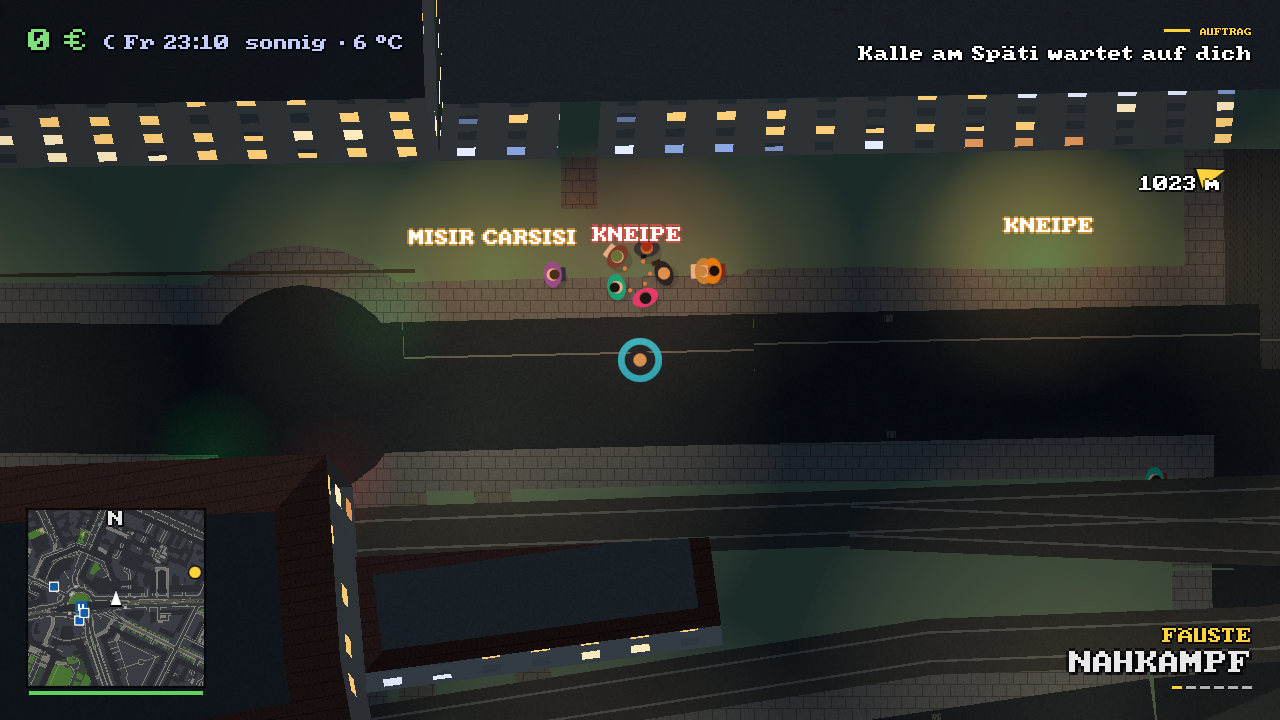
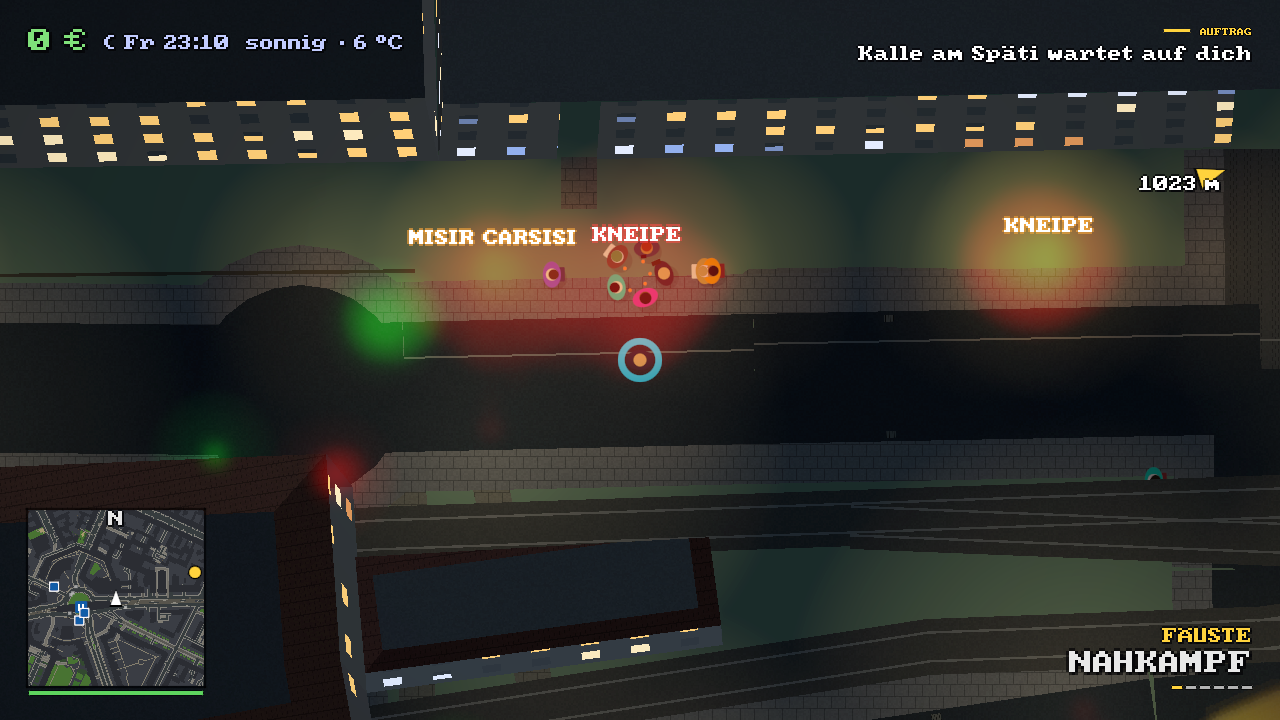
Füge Bloom hinzu
Claude-Session: https://claude.ai/code/session_015BB3bN2DS3Y1wtQDcEaCp9

diff --git a/crates/engine/src/lightpass.rs b/crates/engine/src/lightpass.rs
@@ -23,6 +23,7 @@ pub(crate) struct LightPass {
     pub light_composite: wgpu::RenderPipeline,
     pub ambient_composite: wgpu::RenderPipeline,
     pub grade: wgpu::RenderPipeline,
+    pub bloom: wgpu::RenderPipeline,
     pub mask: Target,
     pub lightmap: Target,
     sampler: wgpu::Sampler,
@@ -59,6 +60,19 @@ const ADD: wgpu::BlendState = wgpu::BlendState {
     },
     alpha: wgpu::BlendComponent {
         src_factor: wgpu::BlendFactor::One,
+        dst_factor: wgpu::BlendFactor::One,
+        operation: wgpu::BlendOperation::Add,
+    },
+};
+/// Quelle · (1 − Ziel) + Ziel („screen“, Bloom).
+const SCREEN: wgpu::BlendState = wgpu::BlendState {
+    color: wgpu::BlendComponent {
+        src_factor: wgpu::BlendFactor::OneMinusDst,
+        dst_factor: wgpu::BlendFactor::One,
+        operation: wgpu::BlendOperation::Add,
+    },
+    alpha: wgpu::BlendComponent {
+        src_factor: wgpu::BlendFactor::Zero,
         dst_factor: wgpu::BlendFactor::One,
         operation: wgpu::BlendOperation::Add,
     },
@@ -255,6 +269,15 @@ impl LightPass {
                 &[],
                 cx.surface,
                 MULTIPLY,
+                Some(depth_test(wgpu::CompareFunction::Always)),
+            ),
+            bloom: cx.pipeline(
+                "Bloom",
+                "full_vs",
+                "bloom_fs",
+                &[],
+                cx.surface,
+                SCREEN,
                 Some(depth_test(wgpu::CompareFunction::Always)),
             ),
             mask: cx.target(&sampler, "Schattenmaske", MASK_FORMAT, w, h),

diff --git a/crates/engine/src/renderer.rs b/crates/engine/src/renderer.rs
@@ -857,6 +857,10 @@ impl Renderer {
             pass.draw(0..3, 0..1);
             pass.set_pipeline(&self.light.ambient_composite);
             pass.draw(0..3, 0..1);
+            if self.lighting.dark > 0.3 {
+                pass.set_pipeline(&self.light.bloom);
+                pass.draw(0..3, 0..1);
+            }
         }
         let m = self.lighting.minutes.rem_euclid(1440.);
         if self.lighting.windows > 0.001 || !(330. ..=1380.).contains(&m) {

diff --git a/docs/NATIVE-RUST.md b/docs/NATIVE-RUST.md
@@ -1087,8 +1087,7 @@ nachts stärker, und ein dunkler Rand auf 17 % in den Ecken. [Bild](images/nativ
 
 **Abweichungen:** Soft-Light gibt es als feste Mischfunktion nicht; bei 2–6 % Deckkraft ist es eine Tönung mit dem
 Faktor 1 + a·(2c − 1), auf das hellste Glied normiert, weil das Bildziel nicht über 1 aufhellen kann. Die Vignette
-dunkelt ab, statt die fast schwarze Farbe einzumischen. Bloom fehlt noch (er braucht eine weichgezeichnete Kopie der
-Lichtkarte).
+dunkelt ab, statt die fast schwarze Farbe einzumischen.
 
 ## Silhouetten verdeckter Figuren (04.10.2026)
 
@@ -1136,3 +1135,11 @@ ohne Fahrplan fährt im festen Takt (zwei Züge je 150 s) ein Zug über die näc
 (Tiefpass 90 Hz, `Mix::rumble`). Im U-Bahnhof ist die Mischung eine gedämpfte Halle: Grundrauschen, stark gedämpft,
 Züge rumpeln lauter (×1,3), von oben kommt nichts an (`Mix::station`). Geprüft im Kottbusser-Tor-Test: oben unter dem
 U1-Viadukt rumpelt binnen einer Minute ein Zug, unten gilt die Hallenmischung; Unit-Test für den festen Takt.
+
+## Bloom (04.10.2026)
+
+Port von `lighting.js drawBloom`: Nachts (Dunkelheit über 0,3) überstrahlen helle Stellen der Lichtkarte –
+Ampeln, Scheinwerfer, Leuchtreklame, Laternen. `lighting.wgsl bloom_fs` nimmt die Lichtkarte wie
+`brightness(0,55) contrast(5)`, zeichnet sie mit 13 Abtastungen auf zwei Ringen weich und legt sie mit der Mischung
+„screen“ (Quelle·(1 − Ziel) + Ziel) über das Bild, Stärke max(0, Dunkelheit − 0,3)·0,32 wie in JS. Kein eigenes
+Ziel nötig: die Lichtkarte liegt ohnehin in halber Auflösung vor. Das Reklamebild oben zeigt den Bloom.

diff --git a/CHANGELOG.md b/CHANGELOG.md
@@ -8,6 +8,7 @@ ein Prototyp: Spielstände, Kartenformat und Steuerung können sich zwischen Ver
 
 ### Neu
 
+- Native Rust-Portierung: Bloom – nachts überstrahlen Ampeln, Scheinwerfer und Leuchtreklame.
 - Native Rust-Portierung: Rumpeln vorbeifahrender Bahnen (auch im Tunnel) und die gedämpfte Halle im U-Bahnhof.
 - Native Rust-Portierung: nachts Schaufensterlicht auf dem Gehweg und Leuchtreklame vor Kneipen, Clubs, Spätis,
   Imbissen und Hotels (`--bildschirm reklame`).
